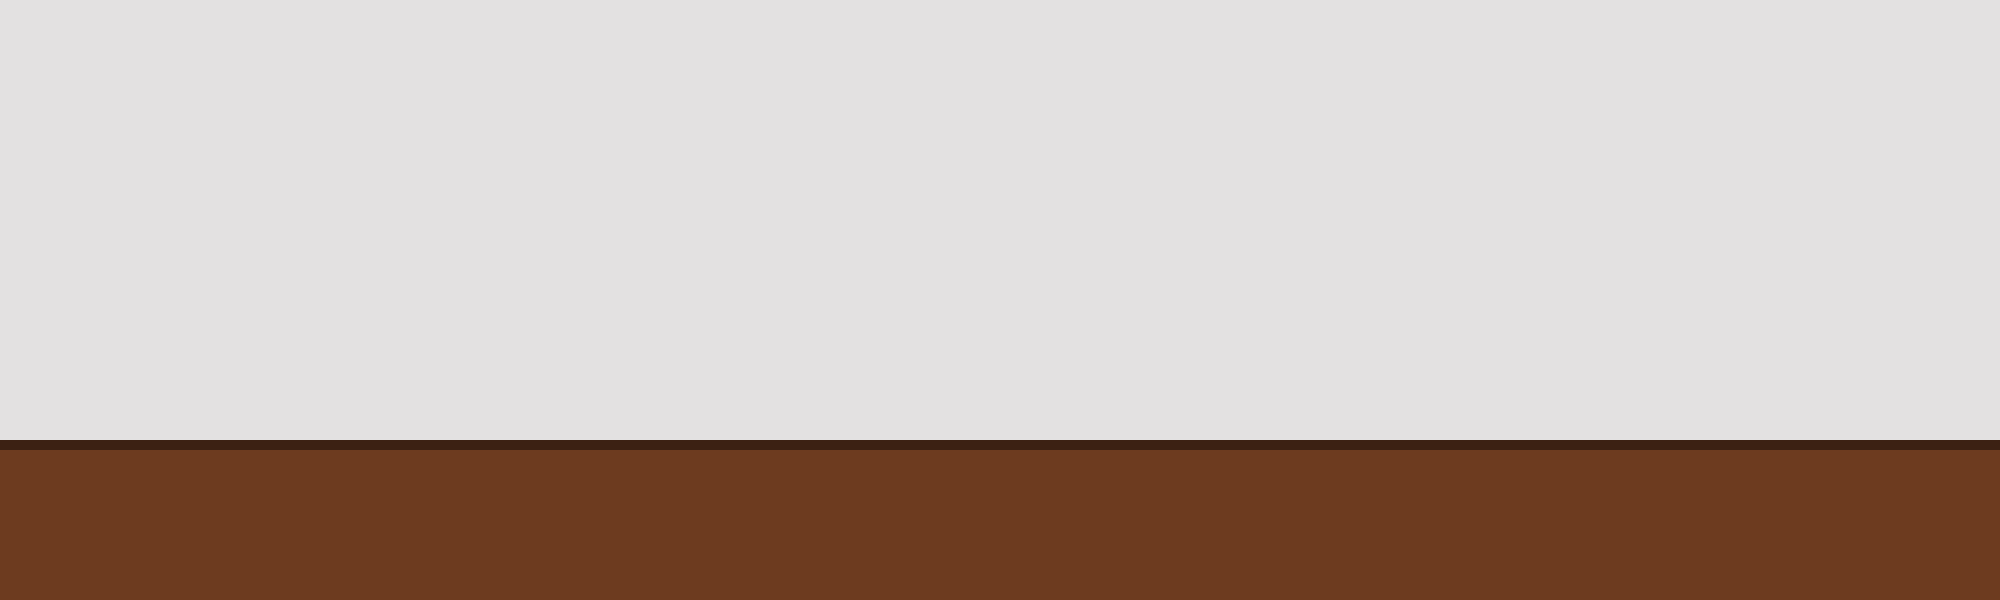
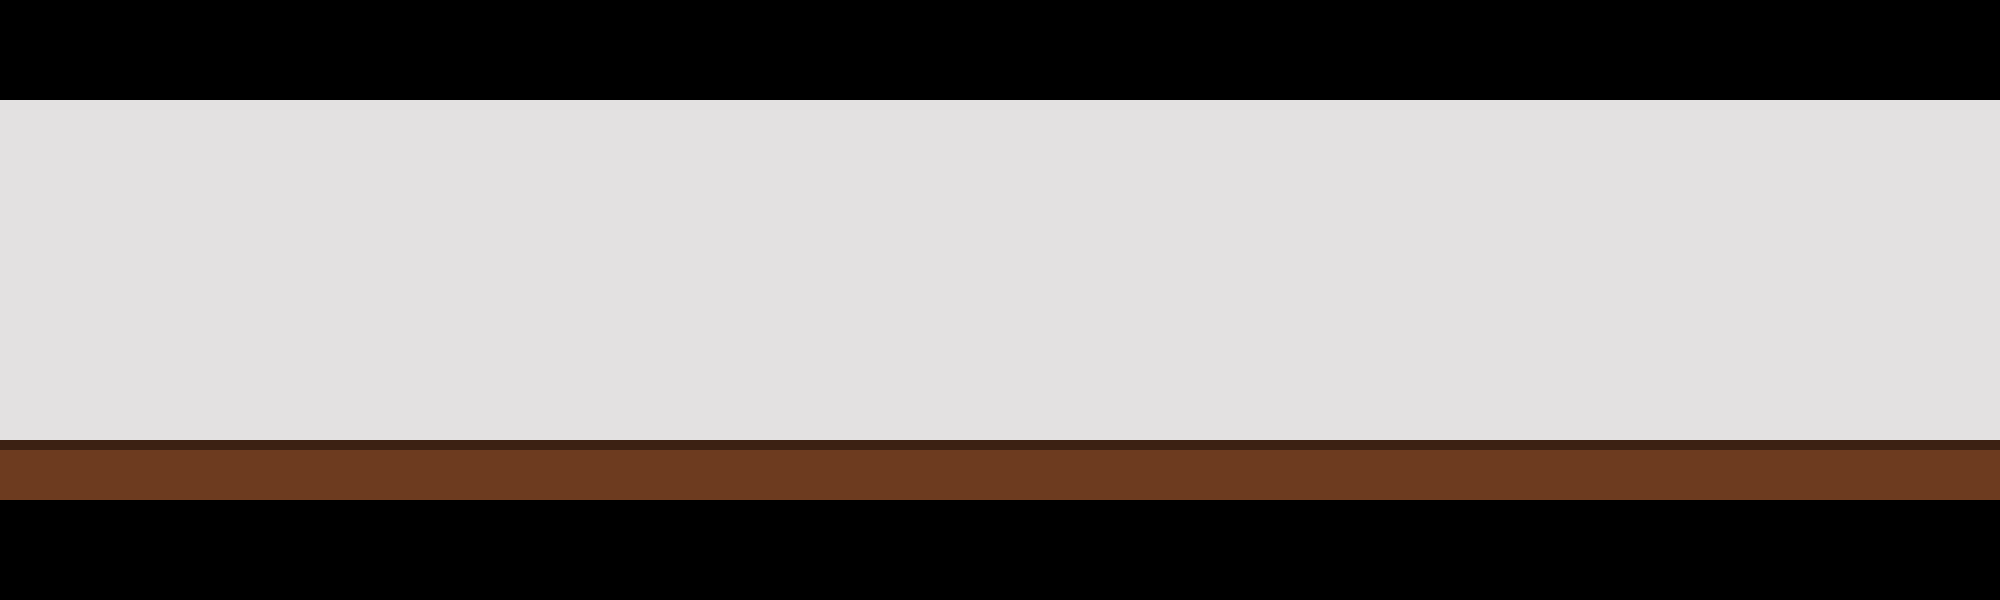
Map update
Nothing special, edited the new map to have black lines on the top and bottom
For now I'm gonna keep the old map as "GalleryBackup.png" in case I need it

diff --git a/main.py b/main.py
@@ -90,8 +90,8 @@ class GameState():
         #decorations
         flowepot1 = Decoration(700, 435, const.flowerpotSpritePath)
         flowepot2 = Decoration(1100, 435, const.flowerpotSpritePath)
-        greekColumn1 = Decoration(920, 420, const.greekColumnSpritePath)
-        greekColumn2 = Decoration(1300, 420, const.greekColumnSpritePath)
+        greekColumn1 = Decoration(920, 419, const.greekColumnSpritePath)
+        greekColumn2 = Decoration(1300, 419, const.greekColumnSpritePath)
         decorationsGroup = pygame.sprite.Group()
         decorationsGroup.add(flowepot1)
         decorationsGroup.add(flowepot2)
